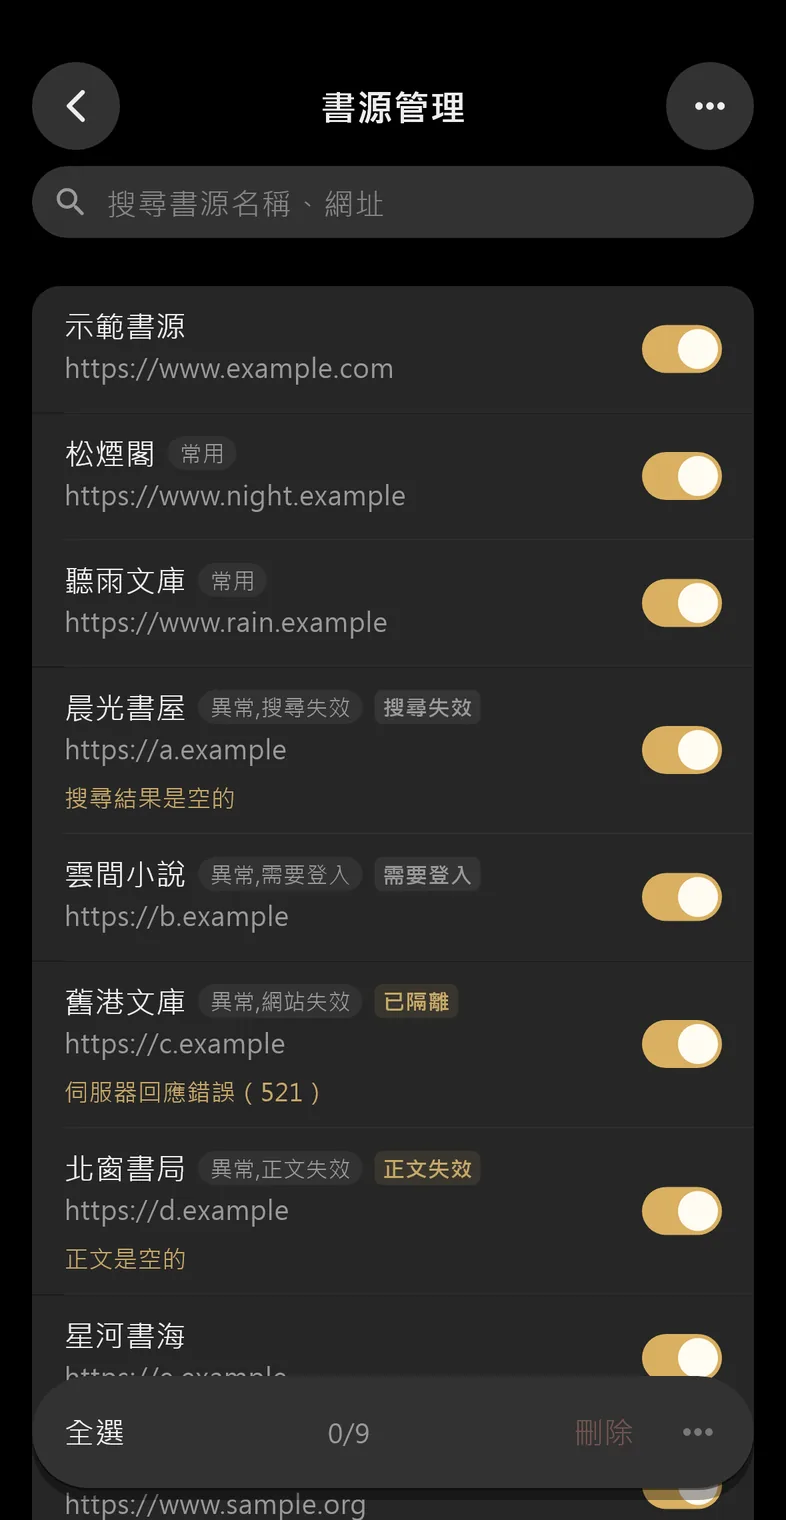
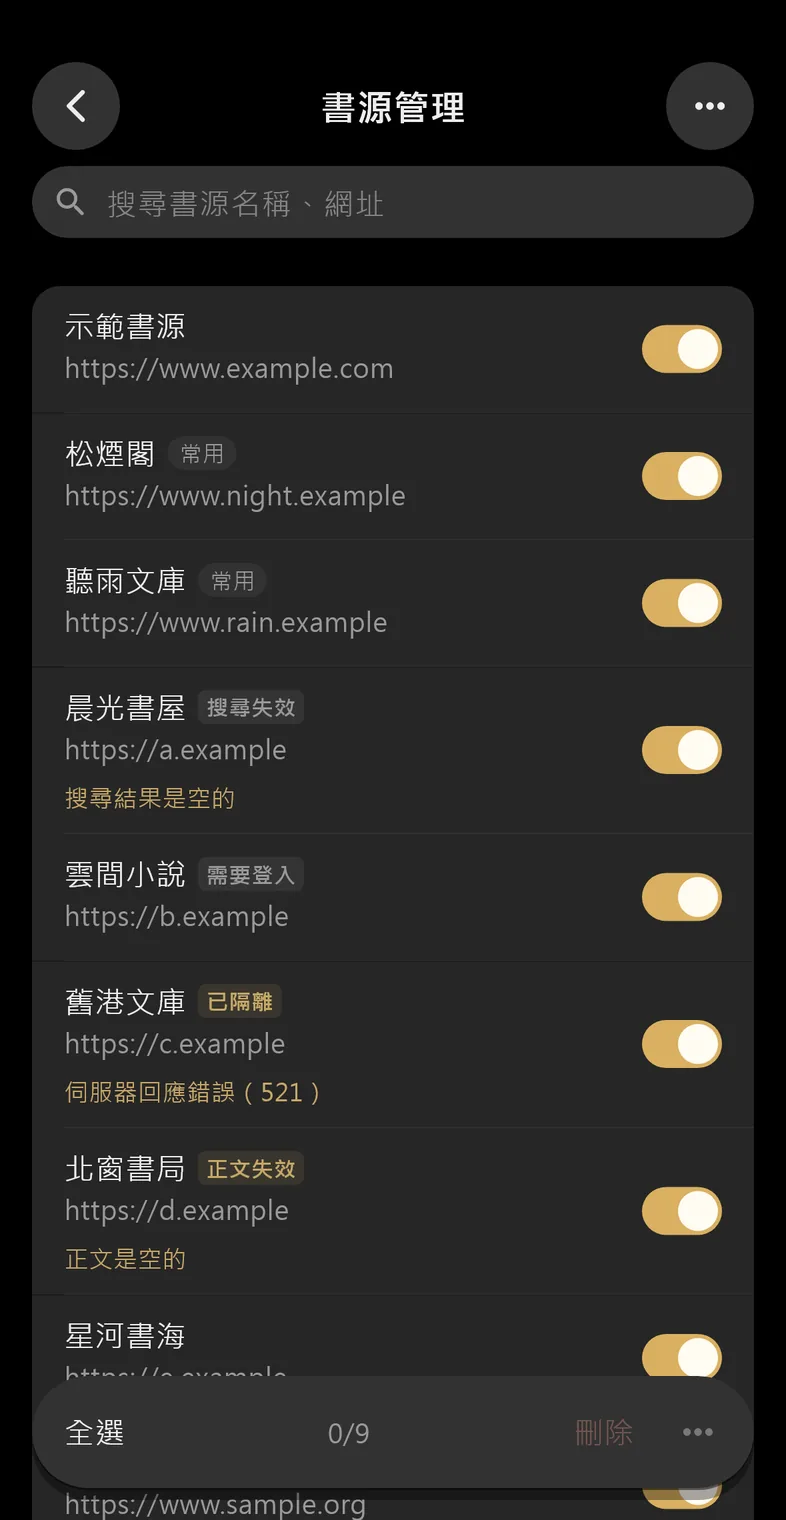
fix(source): 書源列表名稱旁不再重複顯示校驗結果
校驗把結果寫進書源的分組（照 Legado，「異常,搜尋失效」），列表名稱旁的分組膠囊原樣顯示分組，右邊又有狀態標籤，失效的書源同時出現「異常,搜尋失效」與「搜尋失效」。
改成分組膠囊只列使用者自己的分組，濾掉 sourceRuntimeStatusTags；校驗結果只由狀態標籤顯示。書源存的分組不動，匯入匯出照舊相容 Legado。
沒選的：校驗不寫進分組（會和 Legado 書源檔不相容、篩選選單也靠它）。
驗證：source_manager_page_test 加一個測試（精選＋異常＋搜尋失效 → 膠囊只有「精選」、狀態標籤一個），整份 28 個通過；重拍網站與 README 的書源校驗畫面並看過。

diff --git a/test/features/source_manager/source_manager_page_test.dart b/test/features/source_manager/source_manager_page_test.dart
@@ -476,6 +476,36 @@ void main() {
     expect(find.textContaining('書源0'), findsOneWidget);
   });
 
+  testWidgets('名稱旁的分組只列使用者的分組，校驗結果只在狀態標籤出現一次', (tester) async {
+    final dao = GetIt.instance<BookSourceDao>();
+    await tester.runAsync(() async {
+      await dao.upsert(
+        BookSource(
+          bookSourceUrl: 'https://broken.example',
+          bookSourceName: '壞掉的書源',
+          bookSourceGroup:
+              '精選,$abnormalSourceGroupTag,$searchBrokenSourceGroupTag',
+          customOrder: -1,
+        ),
+      );
+    });
+    await pumpPage(tester);
+
+    final tile = find.ancestor(
+      of: find.text('壞掉的書源'),
+      matching: find.byType(SourceItemTile),
+    );
+    Finder inTile(String text) =>
+        find.descendant(of: tile, matching: find.text(text));
+    expect(inTile('精選'), findsOneWidget);
+    expect(inTile(searchBrokenSourceGroupTag), findsOneWidget);
+    expect(inTile(abnormalSourceGroupTag), findsNothing);
+    expect(
+      find.descendant(of: tile, matching: find.textContaining(',')),
+      findsNothing,
+    );
+  });
+
   testWidgets('the batch toolbar stays at the bottom outside selection mode', (
     tester,
   ) async {

diff --git a/lib/features/source_manager/widgets/source_item_tile.dart b/lib/features/source_manager/widgets/source_item_tile.dart
@@ -394,10 +394,12 @@ class _SourceRowContent extends StatelessWidget {
     );
   }
 
-  /// 書源名稱旁的分組小膠囊；多個分組照原樣以逗號相接。
+  /// 書源名稱旁的分組小膠囊：使用者自己的分組以逗號相接。校驗寫進分組的
+  /// 結果標記（「異常」「搜尋失效」……）不列，校驗結果由右邊的狀態標籤顯示。
   String? get _groupLabel {
-    final group = source.bookSourceGroup?.trim();
-    return group == null || group.isEmpty ? null : group;
+    final groups = splitSourceGroups(source.bookSourceGroup)
+        .where((group) => !sourceRuntimeStatusTags.contains(group));
+    return groups.isEmpty ? null : groups.join(',');
   }
 
   Widget _buildStatusTag(BuildContext context, SourceRuntimeHealth health) {
